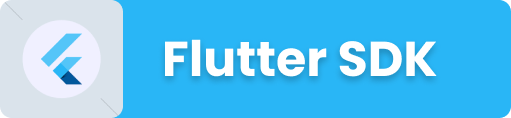
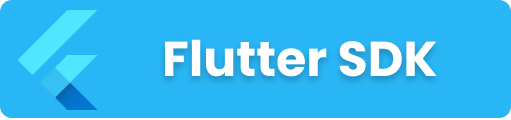
Screen  mirroring added 📱

diff --git a/windows/README.md b/windows/README.md
@@ -1,38 +1,35 @@
 
 # Setup Android SDK without Android Studio
 
-[![Download Flutter](https://storage.googleapis.com/cms-storage-bucket/6a07d8a62f4308d2b854.svg)](https://storage.googleapis.com/flutter_infra_release/releases/stable/windows/flutter_windows_3.0.2-stable.zip)
+[![Download Flutter](../assets/banner_win.png)](https://storage.googleapis.com/flutter_infra_release/releases/stable/windows/flutter_windows_3.0.2-stable.zip)
 
 
 After upgrading to Flutter 3.0++ , It's very complicated to setup Android SDK Toolchain.
 Neither Choco Package Manager nor Official Documentation working Properly.
-That's why I have collected Android SDK Toolchan , build tools, commandline Tools,
-in a package that included JAVA 11.2.0. After unzipping it, you be able to setup toolchain easily.
-Happy Coding..
+That's why I have collected Android SDK Toolchan , build tools, commandline Tools for easy setup
 
-## Downloads
+## Required Files Download Link ✨:
 
-![Files](images/Files.png)
 
-Download All Files From Google Drive
+Download All of those files:
 
-[![Download Android SDK](images/Download-button.png)](https://drive.google.com/drive/folders/12IKc1vYp4bWXP8wamoh8a751RPBfTOu6?usp=sharing)
+[![FlutterDoctor](../assets/flutter_sdk.png)](https://docs.flutter.dev/release/archive?tab=windows)
+[![Download Android SDK](../assets/java_jdk.png)](https://files02.tchspt.com/down/jdk-18.0.2.1_windows-x64_bin.exe)
+
+[![FlutterDoctor](../assets/android_sdk.png)](https://github.com/arrahmanbd/flutter-doctor/releases/download/sdk_win_v1.0/Android_SDK.rar)
+
 
 ## Installation
 
- Extract Android.rar Folder using winRar to your system root directory.
+ 1. Extract <b>Android_SDK.rar</b> using winRar to your system root directory.
 
 
 ```bash
   C:\
 ```
+2. Install Java as normally any other software you Install.
 
-
- Then Install Java as normal any other software you Install.
-
- Now [Download Flutter](https://storage.googleapis.com/flutter_infra_release/releases/stable/windows/flutter_windows_3.0.2-stable.zip) and Extract it into Android Folder. It will be extracted like this hierarchy
-
-
+3. Extract <b>flutter_sdk.zip</b> using winRar to <b>Android</b> directory previously we created.
 
 
 ```bash
@@ -48,12 +45,16 @@ All Files and Folder will Look Like This Hirecry Right?
 
 ## Environment Variables
 
+There are two way:
+1. Run the <b>command.bat</b> file. <b>(Recommended ✨)</b>
+  
+    [![FlutterDoctor](../assets/set_path.png)](./files/command.bat)
 
-![App Screenshot](https://img.shields.io/badge/Windows-Powershell-blue)
+1. Or, manually running the commands in 
+![Powershell](https://img.shields.io/badge/Windows-Powershell-blue)
 
 
 Open Windows Powershell and then paste below commands one by one, like the picture below.
-Or simply run the <b> command.bat</b> files
 
 ```bash
 $env:ANDROID_HOME = 'C:\Android\Sdk';
@@ -62,11 +63,25 @@ set PATH "C:\Android\Sdk\cmdline-tools\latest\bin;C:\Android\Sdk\platforms;C:\An
 
 setx PATH "C:\Android\Sdk\cmdline-tools\latest\bin;C:\Android\Sdk\platforms;C:\Android\Sdk\platform-tools;C:\Android\Sdk\tools;C:\Android\flutter\bin;C:\Program Files\Common Files\Oracle\Java\javapath;C:\Program Files\Java\jdk-11.0.14;"
 ```
-
-Powershell Screenshot
+## Powershell Screenshot
 
 ![Powershell](images/Powershell.png)
 
-Everything is set. You may restart your PC and see the magic 👏.
-## Happy Coding 😍
 
+## Enable Screen Mirroring 📱
+Simply run the Reg file. Screen mmirroring option will be shown on Right-Click context menu.
+
+[![FlutterDoctor](../assets/screen_mirroring.png)](./files/screen_mirroring.reg)
+
+
+Everything is set. You may restart your PC and see the magic 👏.
+
+## 🚀 Happy Fluttering 😍
+[![LinkedIn](https://img.shields.io/badge/linkedin-0A66C2?style=for-the-badge&logo=linkedin&logoColor=white)](https://www.linkedin.com/in/arrahmanbd)
+[![GitHUb](https://img.shields.io/badge/Github-22272e?style=for-the-badge&logo=github&logoColor=white)](https://www.github.com/arrahmanbd)
+[![Facebook](https://img.shields.io/badge/Facebook-0A66C2?style=for-the-badge&logo=facebook&logoColor=white)](https://www.facebook.com/arrahman.dev)
+
+License
+-------
+
+This project is licensed under the [MIT License](LICENSE).

diff --git a/README.md b/README.md
@@ -1,7 +1,7 @@
-FlutterDoc
+FlutterDoc [Linux + [Windows](windows/)]
 ==========
 
-![FlutterDoctor](assets/setup.png)
+![FlutterDoctor](assets/banner_linux.png)
 
 Hey there, fellow coder! Welcome to the FlutterDoc extravaganza! 🎉 FlutterDoc is your trusty sidekick, a bash script wizard designed to make installing Flutter on Linux as smooth as butter on a hot pancake! 🥞 With FlutterDoc, you'll be crafting cross-platform masterpieces in no time! Tested and approved on the coolest Linux distros like Arch, Ubuntu, Debian, and even Kali! 🐧
 
@@ -68,15 +68,35 @@ Now that you've summoned the FlutterDoc genie, let's see what tricks it has up i
 
 Isn't it simple!! If you can improve this script then please contribute. For more information on how to use FlutterDoc, refer to the my [LinkedIn](https://linkedin.com/in/arrahmanbd).
 
+## Enable Screen Mirroring 📱
+You can enable screen-mirroring using <b>scrcpy</b>
+### Arch/Manjaro:
+```bash
+sudo pacman -S scrcpy
+```
+### Debian/Ubuntu:
+```bash
+sudo apt install scrcpy
+```
+
+
+
 Demo
 -----------
 
 ![Script execution](assets/screenshot.png)
 
+
 Contributing 🎁
 ------------
 
 Got ideas brewing in your cauldron of creativity? FlutterDoc welcomes contributions like a hungry unicorn at a glitter buffet! For more fun-filled adventures with FlutterDoc, hop over to my LinkedIn profile. Let's make coding magical again! 🦄✨
+
+
+## 🚀  Follow
+[![LinkedIn](https://img.shields.io/badge/linkedin-0A66C2?style=for-the-badge&logo=linkedin&logoColor=white)](https://www.linkedin.com/in/arrahmanbd)
+[![GitHUb](https://img.shields.io/badge/Github-22272e?style=for-the-badge&logo=github&logoColor=white)](https://www.github.com/arrahmanbd)
+[![Facebook](https://img.shields.io/badge/Facebook-0A66C2?style=for-the-badge&logo=facebook&logoColor=white)](https://www.facebook.com/arrahman.dev)
 
 License
 -------
